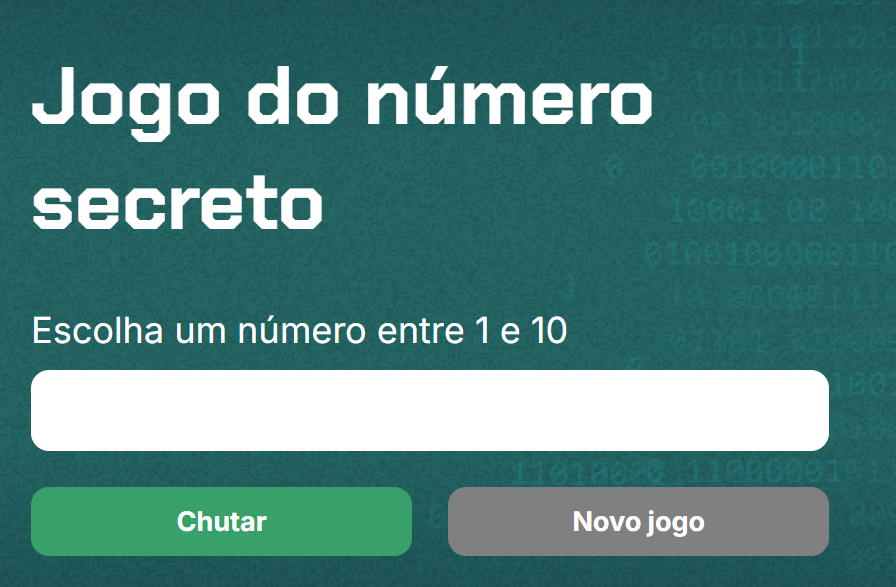
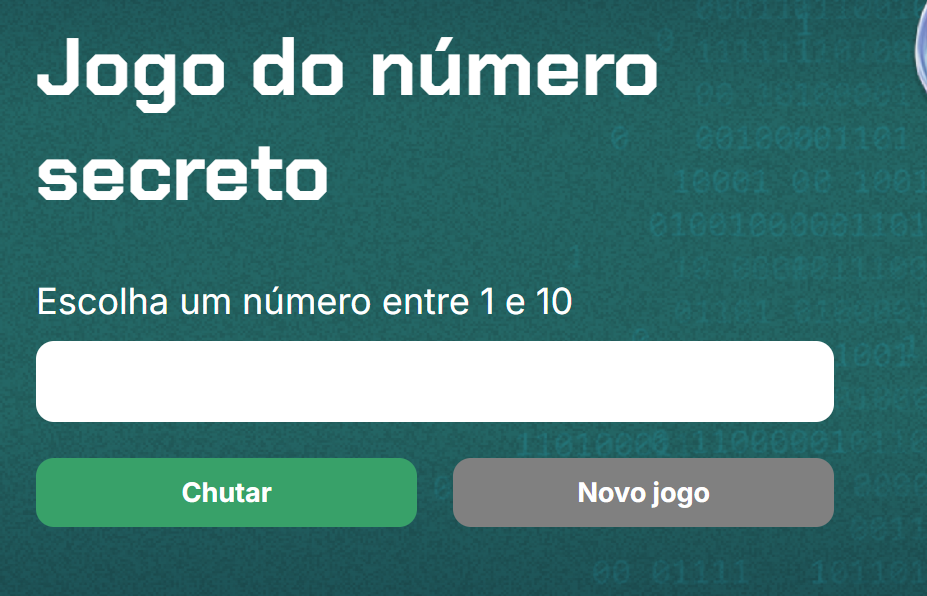
Add files via upload

diff --git a/projetos-academicos.html b/projetos-academicos.html
@@ -1,11 +1,92 @@
 <!DOCTYPE html>
-<html lang="en">
+<html lang="pt-BR">
 <head>
-    <meta charset="UTF-8">
-    <meta name="viewport" content="width=device-width, initial-scale=1.0">
-    <title>Document</title>
+  <meta charset="UTF-8">
+  <meta name="viewport" content="width=device-width, initial-scale=1.0">
+  <title>Projetos</title>
+  <link rel="stylesheet" href="./Styles/academico.css">
+  <link href="https://unpkg.com/boxicons@2.1.4/css/boxicons.min.css" rel="stylesheet">
+  <link rel="stylesheet" href="https://cdnjs.cloudflare.com/ajax/libs/font-awesome/6.5.0/css/all.min.css">
+  <link rel="shortcut icon" type="image/x-icon" href="./assets/aba/logo_aba.ico">
+
 </head>
 <body>
-    
+  <header>
+    <a href="index.html#projetos" class="back"><i class="bx bx-left-arrow-alt"></i> Voltar aos projetos</a>
+    <h1>PROJETOS</h1>
+    <h2>PROJETOS AUTORAIS</h2>
+  </header>
+
+  <div class="cards-container">
+
+    <div class="cards-container">
+  <div class="card">
+    <div class="card-img" style="background-image: url('./assets/autoral_projetos/coracao.png');"></div>
+    <div class="card-content">
+      <h3>EcoLove</h3>
+      <p>Simule a compra de produtos com quantidade.</p>
+      <div class="card-icons">
+        <a href="https://github.com/andrefnevess/cora-o" target="_blank">
+          <i class="fab fa-github"></i>
+        </a>
+        <a href="https://cora-o-theta.vercel.app/" target="_blank">
+          <i class="fas fa-external-link-alt"></i>
+        </a>
+      </div>
+    </div>
+  </div>
+
+  <div class="card">
+    <div class="card-img" style="background-image: url('./assets/alura_projetos/sorteador_de_numero.png');"></div>
+    <div class="card-content">
+      <h3>Sorteador de Número</h3>
+      <p>Gerencie seu tempo com foco e intervalos.</p>
+      <div class="card-icons">
+        <a href="https://github.com/andrefnevess/number-picker-js" target="_blank">
+          <i class="fab fa-github"></i>
+        </a>
+        <a href="https://number-picker-js.vercel.app/" target="_blank">
+          <i class="fas fa-external-link-alt"></i>
+        </a>
+      </div>
+    </div>
+  </div>
+
+  <div class="card">
+    <div class="card-img" style="background-image: url('./assets/alura_projetos/jogo_numero_secreto.png');"></div>
+    <div class="card-content">
+      <h3>Jogo do Número Secreto</h3>
+      <p>Adivinhe o número entre 1 e 10.</p>
+      <div class="card-icons">
+        <a href="https://github.com/andrefnevess/jogo_do_numero_secreto" target="_blank">
+          <i class="fab fa-github"></i>
+        </a>
+        <a href="https://jogo-do-numero-secreto-ruddy-delta.vercel.app/" target="_blank">
+          <i class="fas fa-external-link-alt"></i>
+        </a>
+      </div>
+    </div>
+  </div>
+
+  <div class="card">
+    <div class="card-img" style="background-image: url('./assets/alura_projetos/carrinho_de_compras.png');"></div>
+    <div class="card-content">
+      <h3>Carrinho de Compras</h3>
+      <p>Sortear números aleatórios facilmente.</p>
+      <div class="card-icons">
+        <a href="https://github.com/andrefnevess/carrinho_de_compras" target="_blank">
+          <i class="fab fa-github"></i>
+        </a>
+        <a href="https://carrinho-de-compras-zeta-sooty.vercel.app/" target="_blank">
+          <i class="fas fa-external-link-alt"></i>
+        </a>
+      </div>
+    </div>
+  </div>
+</div>
+
+
+
+  <script src="./JS/alura.js"></script>
 </body>
 </html>

diff --git a/projetos-autorais.html b/projetos-autorais.html
@@ -1,11 +1,92 @@
 <!DOCTYPE html>
-<html lang="en">
+<html lang="pt-BR">
 <head>
-    <meta charset="UTF-8">
-    <meta name="viewport" content="width=device-width, initial-scale=1.0">
-    <title>Document</title>
+  <meta charset="UTF-8">
+  <meta name="viewport" content="width=device-width, initial-scale=1.0">
+  <title>Projetos</title>
+  <link rel="stylesheet" href="./Styles/autorais.css">
+  <link href="https://unpkg.com/boxicons@2.1.4/css/boxicons.min.css" rel="stylesheet">
+  <link rel="stylesheet" href="https://cdnjs.cloudflare.com/ajax/libs/font-awesome/6.5.0/css/all.min.css">
+  <link rel="shortcut icon" type="image/x-icon" href="./assets/aba/logo_aba.ico">
+
 </head>
 <body>
-    
+  <header>
+    <a href="index.html#projetos" class="back"><i class="bx bx-left-arrow-alt"></i> Voltar aos projetos</a>
+    <h1>PROJETOS</h1>
+    <h2>PROJETOS AUTORAIS</h2>
+  </header>
+
+  <div class="cards-container">
+
+    <div class="cards-container">
+  <div class="card">
+    <div class="card-img" style="background-image: url('./assets/autoral_projetos/coracao.png');"></div>
+    <div class="card-content">
+      <h3>EcoLove</h3>
+      <p>Simule a compra de produtos com quantidade.</p>
+      <div class="card-icons">
+        <a href="https://github.com/andrefnevess/cora-o" target="_blank">
+          <i class="fab fa-github"></i>
+        </a>
+        <a href="https://cora-o-theta.vercel.app/" target="_blank">
+          <i class="fas fa-external-link-alt"></i>
+        </a>
+      </div>
+    </div>
+  </div>
+
+  <div class="card">
+    <div class="card-img" style="background-image: url('./assets/alura_projetos/sorteador_de_numero.png');"></div>
+    <div class="card-content">
+      <h3>Sorteador de Número</h3>
+      <p>Gerencie seu tempo com foco e intervalos.</p>
+      <div class="card-icons">
+        <a href="https://github.com/andrefnevess/number-picker-js" target="_blank">
+          <i class="fab fa-github"></i>
+        </a>
+        <a href="https://number-picker-js.vercel.app/" target="_blank">
+          <i class="fas fa-external-link-alt"></i>
+        </a>
+      </div>
+    </div>
+  </div>
+
+  <div class="card">
+    <div class="card-img" style="background-image: url('./assets/alura_projetos/jogo_numero_secreto.png');"></div>
+    <div class="card-content">
+      <h3>Jogo do Número Secreto</h3>
+      <p>Adivinhe o número entre 1 e 10.</p>
+      <div class="card-icons">
+        <a href="https://github.com/andrefnevess/jogo_do_numero_secreto" target="_blank">
+          <i class="fab fa-github"></i>
+        </a>
+        <a href="https://jogo-do-numero-secreto-ruddy-delta.vercel.app/" target="_blank">
+          <i class="fas fa-external-link-alt"></i>
+        </a>
+      </div>
+    </div>
+  </div>
+
+  <div class="card">
+    <div class="card-img" style="background-image: url('./assets/alura_projetos/carrinho_de_compras.png');"></div>
+    <div class="card-content">
+      <h3>Carrinho de Compras</h3>
+      <p>Sortear números aleatórios facilmente.</p>
+      <div class="card-icons">
+        <a href="https://github.com/andrefnevess/carrinho_de_compras" target="_blank">
+          <i class="fab fa-github"></i>
+        </a>
+        <a href="https://carrinho-de-compras-zeta-sooty.vercel.app/" target="_blank">
+          <i class="fas fa-external-link-alt"></i>
+        </a>
+      </div>
+    </div>
+  </div>
+</div>
+
+
+
+  <script src="./JS/alura.js"></script>
 </body>
 </html>

diff --git a/projetos-educacionais.html b/projetos-educacionais.html
@@ -53,7 +53,7 @@
   </div>
 
   <div class="card">
-    <div class="card-img" style="background-image: url('jogo_numero_secreto.png');"></div>
+    <div class="card-img" style="background-image: url('./assets/alura_projetos/jogo_numero_secreto.png');"></div>
     <div class="card-content">
       <h3>Jogo do Número Secreto</h3>
       <p>Adivinhe o número entre 1 e 10.</p>
@@ -69,7 +69,7 @@
   </div>
 
   <div class="card">
-    <div class="card-img" style="background-image: url('sorteador_de_numero.png');"></div>
+    <div class="card-img" style="background-image: url('./assets/alura_projetos/carrinho_de_compras.png');"></div>
     <div class="card-content">
       <h3>Carrinho de Compras</h3>
       <p>Sortear números aleatórios facilmente.</p>

diff --git a/Styles/autorais.css b/Styles/autorais.css
@@ -36,18 +36,17 @@ body {
   z-index: 0;
 }
 
-#projetos-educacionais::before {
+#projetos::before {
   content: "";
   position: relative;
   top: 0;
   left: 0;
   width: 100%;
   height: 100%;
-  background-image: url('../assets/alura_projetos/alura_fundo_projetos.svg');
   background-repeat: repeat;
   background-size: contain;
   background-position: center;
-  opacity: 0.5;
+  opacity: 0.2;
   z-index: -1;
 }
 
@@ -236,7 +235,7 @@ h2::after {
 }
 
 .card {
-  background: #006633;
+  background: #00894a;
   border-radius: 20px;
   overflow: hidden;
   width: 270px; /* largura maior */

diff --git a/index.html b/index.html
@@ -13,7 +13,17 @@
 </head>
 
 <body class="claro">
-  
+
+  <div vw class = "enabled">
+        <div vw-access-button class="active"></div>
+        <div vw-plugin-wrapper>
+            <div class="vw-plugin-top-wrapper"></div>
+        </div>
+    </div>
+    <script src="https://vlibras.gov.br/app/vlibras-plugin.js"></script>
+    <script >
+        new window.VLibras.Widget('https://vlibras.gov.br/app');
+    </script>
 
   <!-- Fundos -->
   <div class="home_fundo">

diff --git a/Styles/academico.css b/Styles/academico.css
@@ -236,7 +236,7 @@ h2::after {
 }
 
 .card {
-  background: #006633;
+  background: #1ec44a;
   border-radius: 20px;
   overflow: hidden;
   width: 270px; /* largura maior */
@@ -251,7 +251,7 @@ h2::after {
 
 .card:hover {
   transform: translateY(-6px);
-  box-shadow: 0px 6px 14px rgba(0, 0, 0, 0.3);
+  box-shadow: 0px 6px 14px rgba(255, 255, 255, 0.3);
 }
 
 .card-img {
